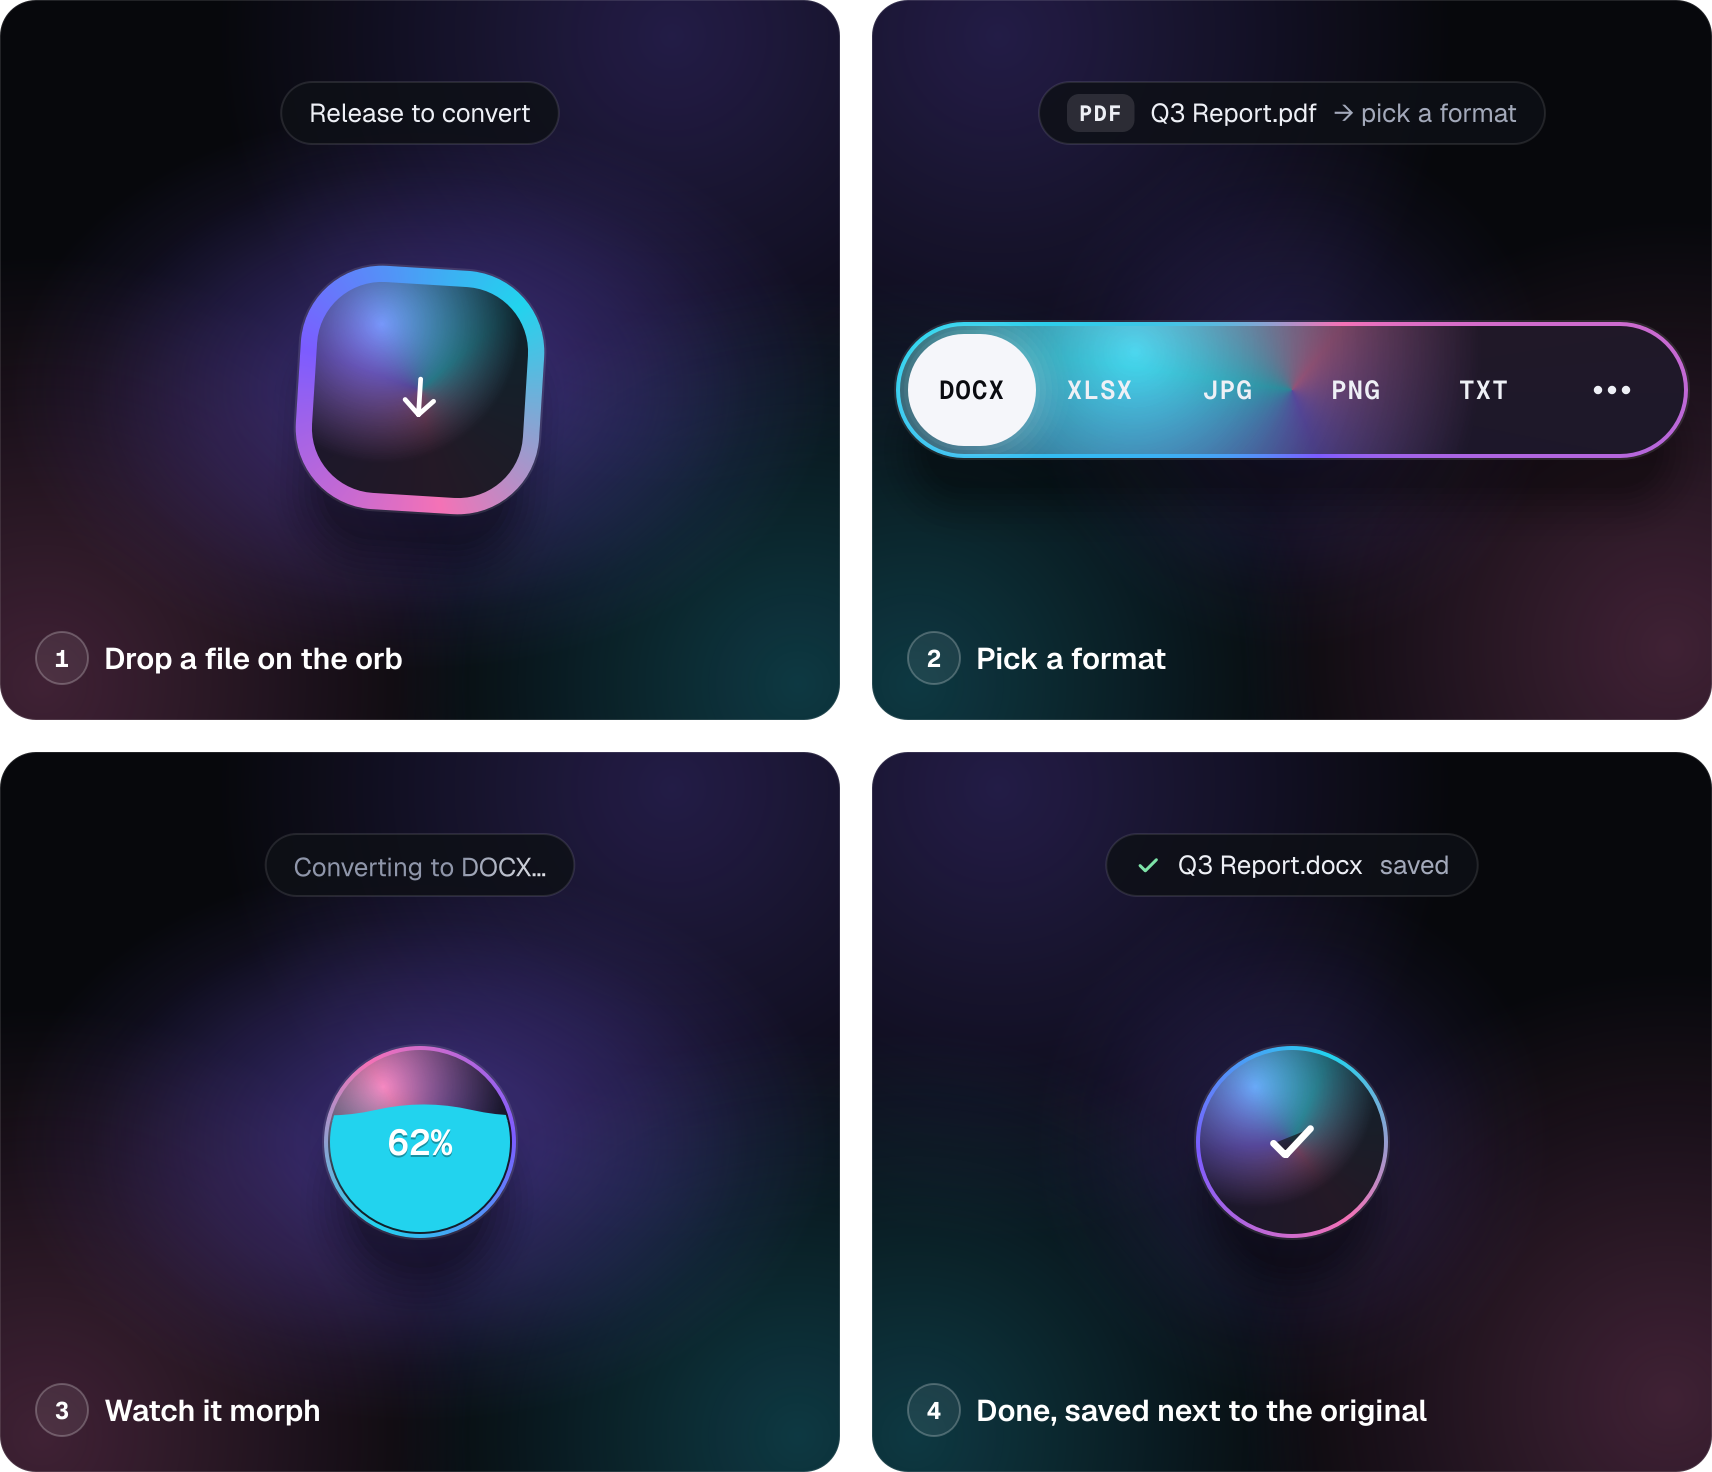
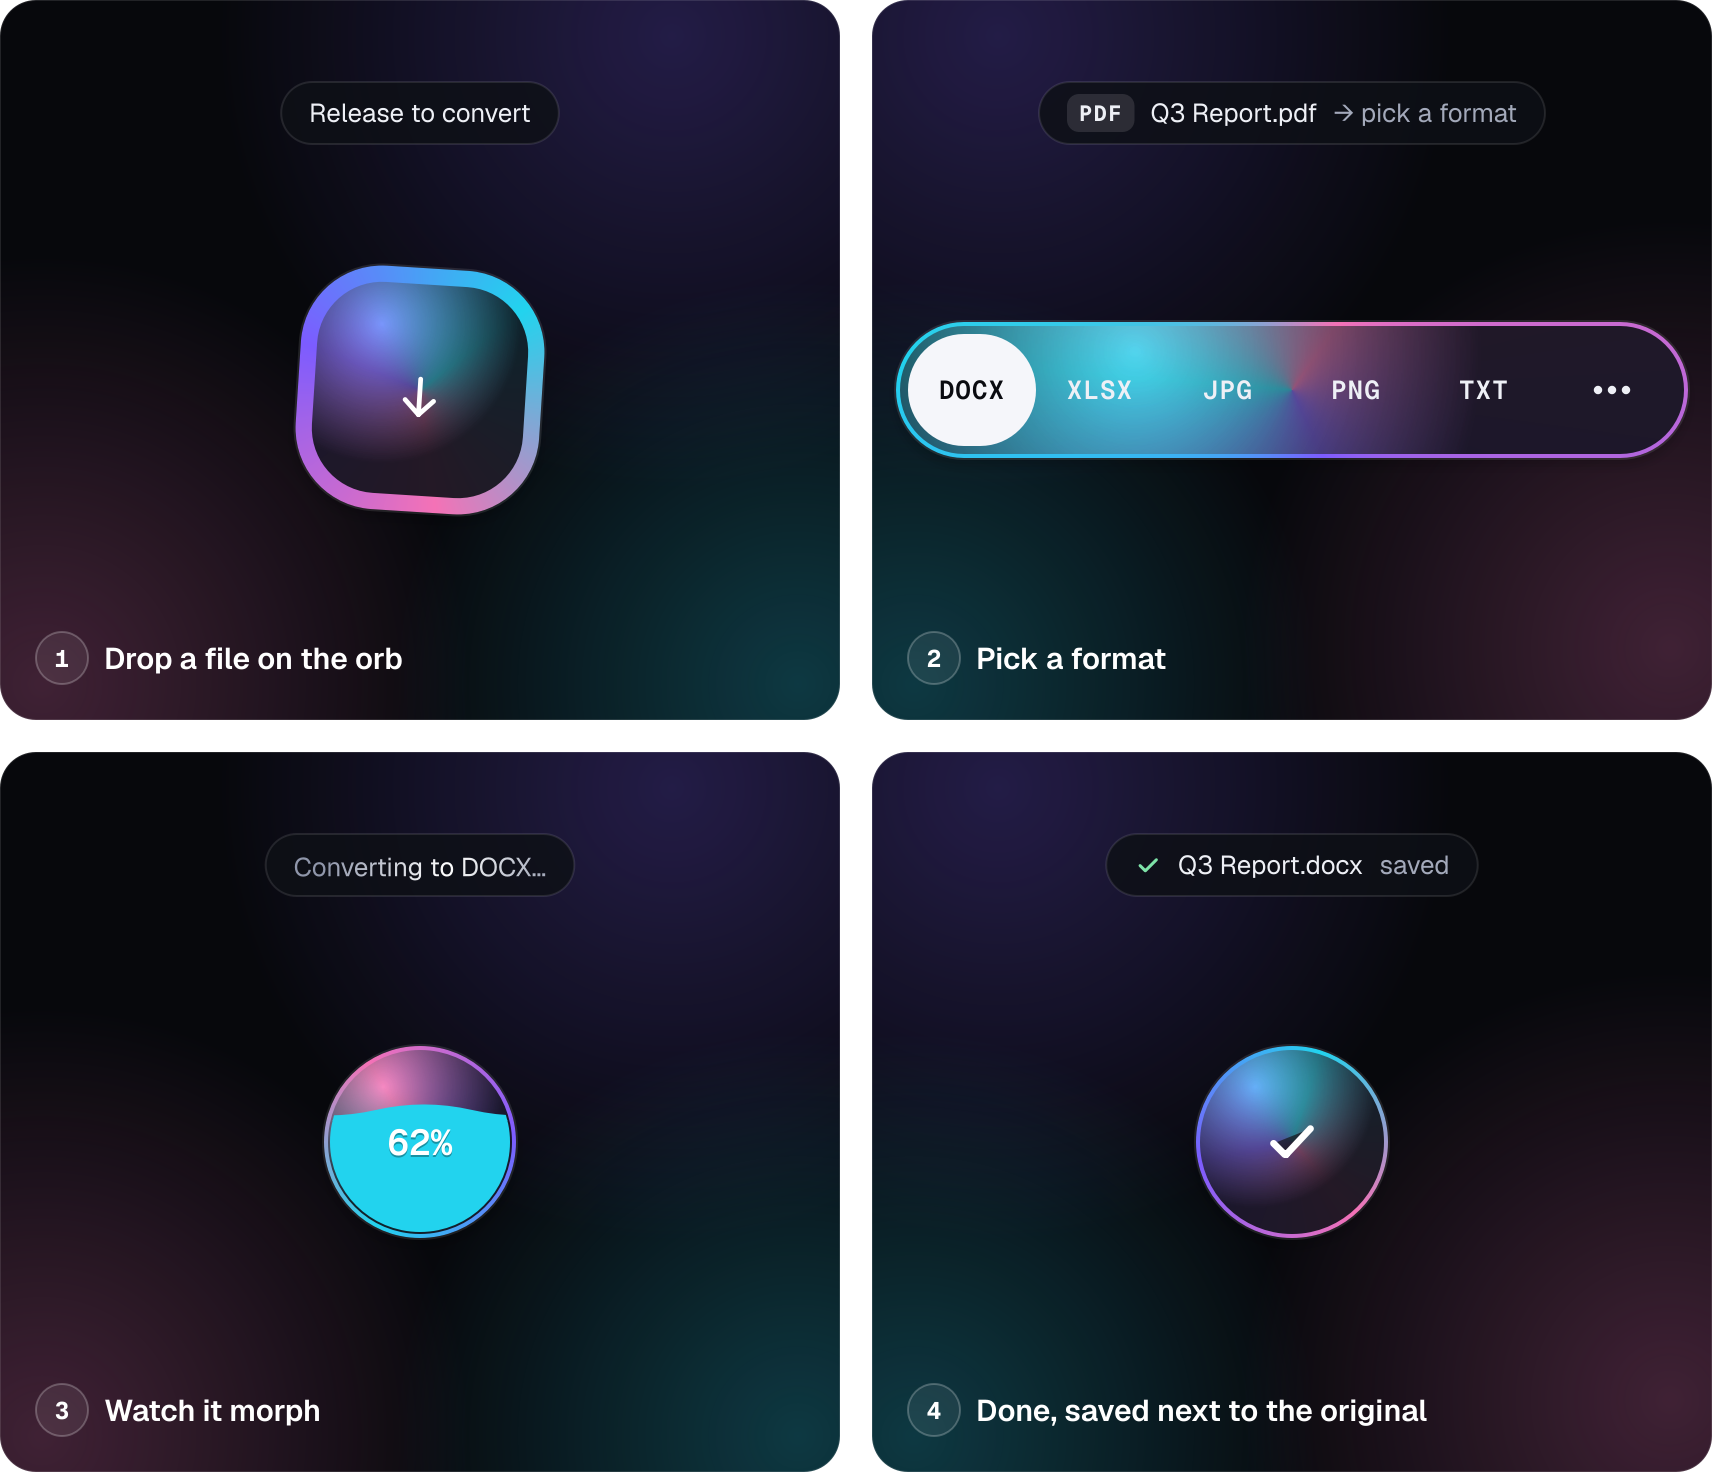
FileMorph 0.3.4: low-profile orb (no glow)
- Remove the coloured glow around the orb in every state
- Soft, close contact shadow instead of the deep drop shadow
- Lighter done shock-ring and format indicator (no halo)
- All springs, morphs, liquid fill and check-mark animations unchanged
- README states image re-rendered; changelog 0.3.4

Claude-Session: https://claude.ai/code/session_01YSqvdFu5EDAoku3JT4xJt3

diff --git a/filemorph/ui/node/node.py b/filemorph/ui/node/node.py
@@ -7,6 +7,8 @@ converting  shrinks back to an orb that fills with liquid (moving wave) + percen
 done        check-mark draws itself, shockwave ring, squash-and-stretch, "<file> saved"
 error       shake + red caption (click for details)
 
+Low profile by design: no glow around the orb, just a soft contact shadow, so it sits quietly
+on the desktop; the motion (springs, morphs, liquid, check-mark) carries the feedback.
 Everything is painted with QPainter on a frameless, translucent, always-on-top window.
 Fully transparent pixels are click-through on Windows, so only the orb catches the mouse.
 """
@@ -72,8 +74,6 @@ class NodeWindow(QWidget):
         self.mode = "idle"
         self.wt, self.ht, self.brt = mo.Tween(BASE), mo.Tween(BASE), mo.Tween(BASE / 2)
         self.inset = mo.Tween(2, 0.6)
-        self.glow = mo.Tween(0.2, 0.6, mo.ease_in_out)
-        self.glow_r = mo.Tween(130, 0.6, mo.ease_in_out)  # tighter at rest so desktop icons stay clickable
         self.ind_x = mo.Tween(0, 0.5)
         self.ind_op = mo.Tween(0, 0.25, mo.linear)
         self.fill = mo.Tween(0, 0.15, mo.linear)
@@ -148,9 +148,6 @@ class NodeWindow(QWidget):
         else:
             self.wt.to(BASE), self.ht.to(BASE), self.brt.to(BASE / 2)
             self.inset.to(2)
-        busy = mode in ("hover", "converting")
-        self.glow.to(0.42 if busy else 0.2)
-        self.glow_r.to(205 if busy else 130)
         self.spin_speed.to(300 if mode in ("hover", "converting") else 60)
         if mode != "picking":
             self.hover_idx = -1
@@ -279,7 +276,7 @@ class NodeWindow(QWidget):
         super().hideEvent(e)
 
     def _update_passthrough(self):
-        """Windows: the translucent glow would otherwise swallow clicks meant for the desktop or the
+        """Windows: translucent pixels (the shadow, the shock ring) would otherwise swallow clicks meant for the desktop or the
         app underneath. Only the orb and its caption take the mouse; elsewhere the window is
         click-through (WS_EX_TRANSPARENT), switched as the cursor moves."""
         if sys.platform != "win32" or not self.isVisible():
@@ -312,7 +309,7 @@ class NodeWindow(QWidget):
         self.last_t = t
         self.spin = (self.spin + dt * self.spin_speed.value()) % 360
         if self.mode == "idle" and self.caption is None and not self.mouse_inside \
-                and not any(x.active for x in (self.wt, self.ht, self.brt, self.glow)):
+                and not any(x.active for x in (self.wt, self.ht, self.brt)):
             # idle: ~15 fps is plenty for the slow breath and aura spin, and keeps CPU near zero
             self.timer.setInterval(66)
         else:
@@ -327,7 +324,6 @@ class NodeWindow(QWidget):
         p.fillRect(self.rect(), Qt.transparent)
         p.setCompositionMode(QPainter.CompositionMode_SourceOver)
 
-        self._paint_glow(p)
         if self.mode == "done" and self.shock.running:
             self._paint_shock(p)
         p.save()
@@ -356,44 +352,25 @@ class NodeWindow(QWidget):
         self._paint_caption(p)
         p.end()
 
-    def _paint_glow(self, p: QPainter):
-        # canvas: 380px circle of c1, blur(100px), opacity .2 idle / .42 on drop
-        a = self.glow.value()
-        rad = self.glow_r.value()
-        g = QRadialGradient(QPointF(0, 0), rad)
-        c = QColor(self.c1)
-        for pos, k in ((0, 0.95), (0.3, 0.8), (0.55, 0.5), (0.8, 0.16), (1, 0)):
-            c.setAlphaF(a * k)
-            g.setColorAt(pos, QColor(c))
-        # The window is shorter than the big drop glow: squash it vertically so it fades out
-        # inside the window instead of being cut off by a hard edge.
-        ry = min(rad, H - CY - 2, CY - 2)
-        p.save()
-        p.translate(CX, CY)
-        p.scale(1.0, ry / rad if rad > 0 else 1.0)
-        p.setPen(Qt.NoPen)
-        p.setBrush(QBrush(g))
-        p.drawEllipse(QPointF(0, 0), rad, rad)
-        p.restore()
-
     def _paint_shock(self, p: QPainter):
         k = self.shock.value()
-        rad = 48 * (1 + 1.8 * k)
-        p.setPen(QPen(QColor(255, 255, 255, int(255 * 0.75 * (1 - k) * 1.2) if k < 1 else 0), 2))
+        rad = 48 * (1 + 1.4 * k)
+        p.setPen(QPen(QColor(255, 255, 255, int(255 * 0.45 * (1 - k)) if k < 1 else 0), 1.5))
         p.setBrush(Qt.NoBrush)
         p.drawEllipse(QPointF(CX, CY), rad, rad)
 
     def _paint_shadow(self, p: QPainter, r: QRectF, rad: float):
-        # box-shadow: 0 30px 60px -18px rgba(0,0,0,.75) — approximated with stacked soft layers
+        # a soft, close contact shadow (≈ 0 4px 12px rgba(0,0,0,.35)): enough to lift the orb off a
+        # busy wallpaper without a halo around it
         p.setPen(Qt.NoPen)
-        layers = 10
+        layers = 6
         for i in range(layers):
             k = (i + 1) / layers
-            grow = -18 + 30 * k
-            rr = r.adjusted(-grow, -grow + 30, grow, grow + 30)
+            grow = -4 + 9 * k
+            rr = r.adjusted(-grow, -grow + 4, grow, grow + 4)
             if rr.width() <= 0 or rr.height() <= 0:
                 continue
-            p.setBrush(QColor(0, 0, 0, int(255 * 0.75 / layers * (1.25 - k))))
+            p.setBrush(QColor(0, 0, 0, int(255 * 0.35 / layers * (1.25 - k))))
             rd = max(0.0, min(rad + grow, rr.width() / 2, rr.height() / 2))
             p.drawRoundedRect(rr, rd, rd)
 
@@ -551,15 +528,11 @@ class NodeWindow(QWidget):
         if not n:
             return
         cw = (r.width() - 12) / n
-        # indicator (white pill with glow) under the hovered chip
+        # indicator (white pill) under the hovered chip
         op = self.ind_op.value()
         if op > 0.01:
             ir = QRectF(r.left() + 6 + self.ind_x.value() * cw / CW, r.top() + 6, cw, r.height() - 12)
             p.setPen(Qt.NoPen)
-            for i in range(6):  # 0 0 24px rgba(255,255,255,.3)
-                g = 2 + i * 3
-                p.setBrush(QColor(255, 255, 255, int(255 * 0.3 * op / 6 * (1 - i / 6))))
-                p.drawRoundedRect(ir.adjusted(-g, -g, g, g), ir.height() / 2 + g, ir.height() / 2 + g)
             c = QColor(st.INDICATOR)
             c.setAlphaF(op)
             p.setBrush(c)
@@ -686,7 +659,7 @@ class NodeWindow(QWidget):
 
     # ------------------------------------------------------------- input
     def _hit(self, pos: QPointF) -> bool:
-        """The orb itself or its caption pill; the glow around them is decoration, not a target."""
+        """The orb itself or its caption pill; the transparent space around them is not a target."""
         cap = getattr(self, "_cap_rect", None)
         return self._in_shape(pos) or (cap is not None and cap.contains(pos))
 

diff --git a/filemorph/__init__.py b/filemorph/__init__.py
@@ -1,4 +1,4 @@
-__version__ = "0.3.3"
+__version__ = "0.3.4"
 
 # Where installed copies look for updates (only when the user clicks "Check for updates").
 # Must be a PUBLIC GitHub repo's URL (its Releases hold the update packages), or any static

diff --git a/CHANGELOG.md b/CHANGELOG.md
@@ -3,6 +3,11 @@
 Each `## <version>` section becomes the "What's new" text users see in
 FileMorph → ⋯ → Check for updates. Write it for users, in Markdown.
 
+## 0.3.4
+**A quieter orb.** The glow around the FileMorph orb is gone: it now sits on your desktop as a
+clean, low-profile button with just a soft shadow. All the motion is still there, from the morph
+into formats to the liquid fill and the check-mark.
+
 ## 0.3.3
 **New: TRACE.** Drop a logo, sketch, signature, scan, photo or PDF on the orb and pick
 **TRACE** to get a clean black & white vector SVG with the white removed. It's ready for vinyl
